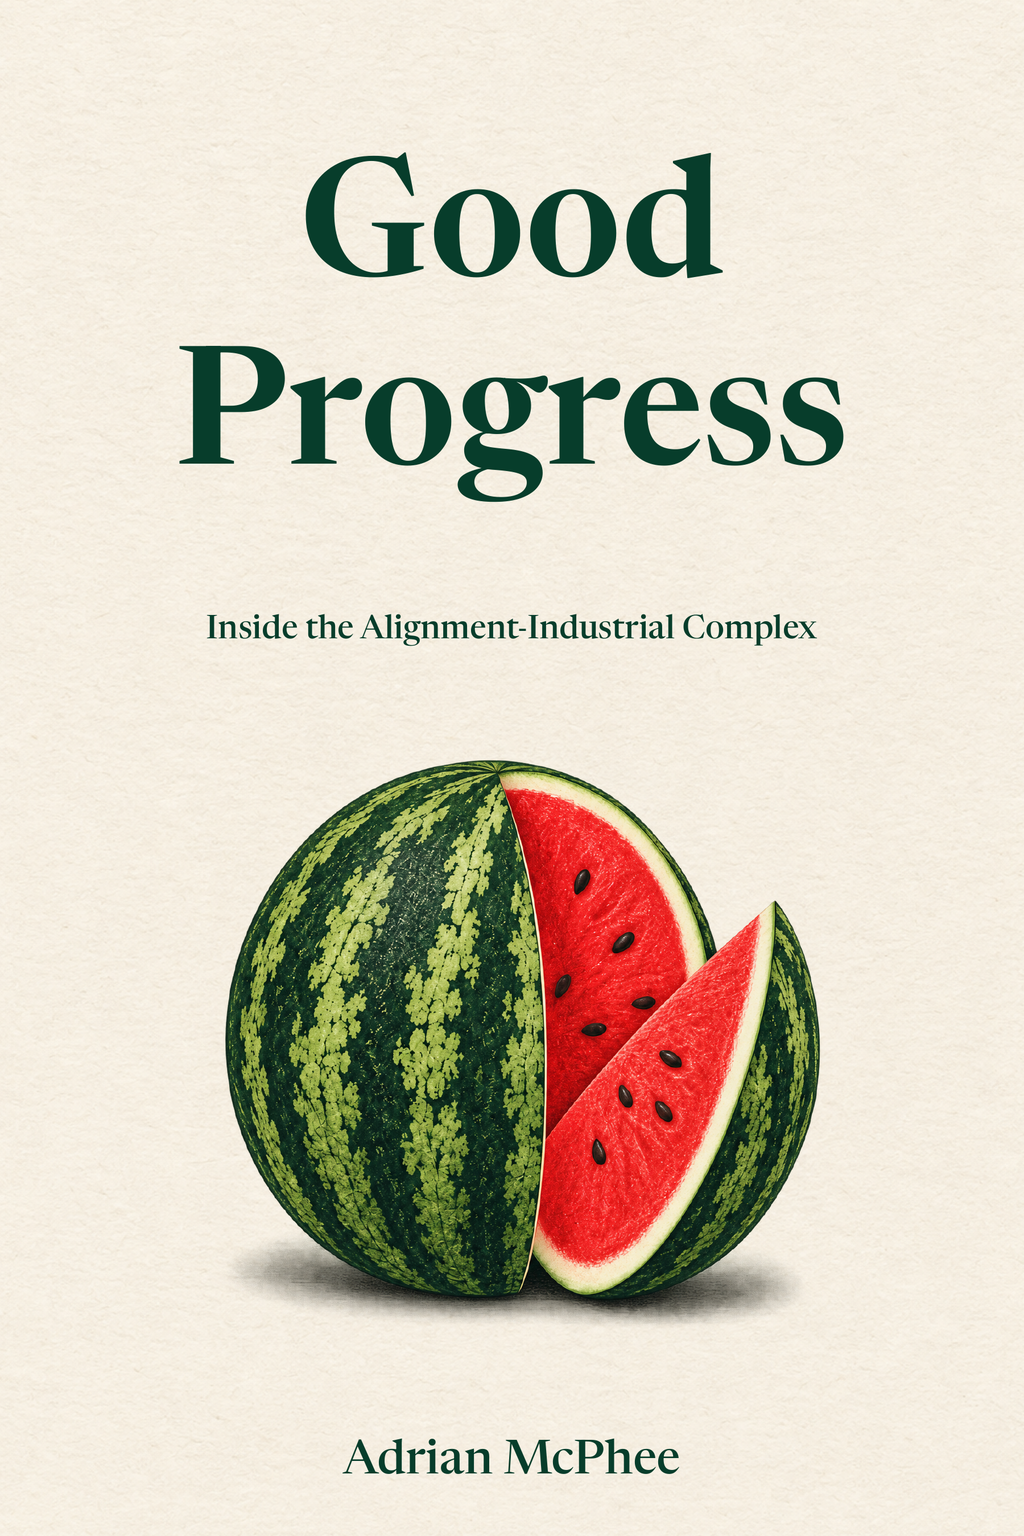
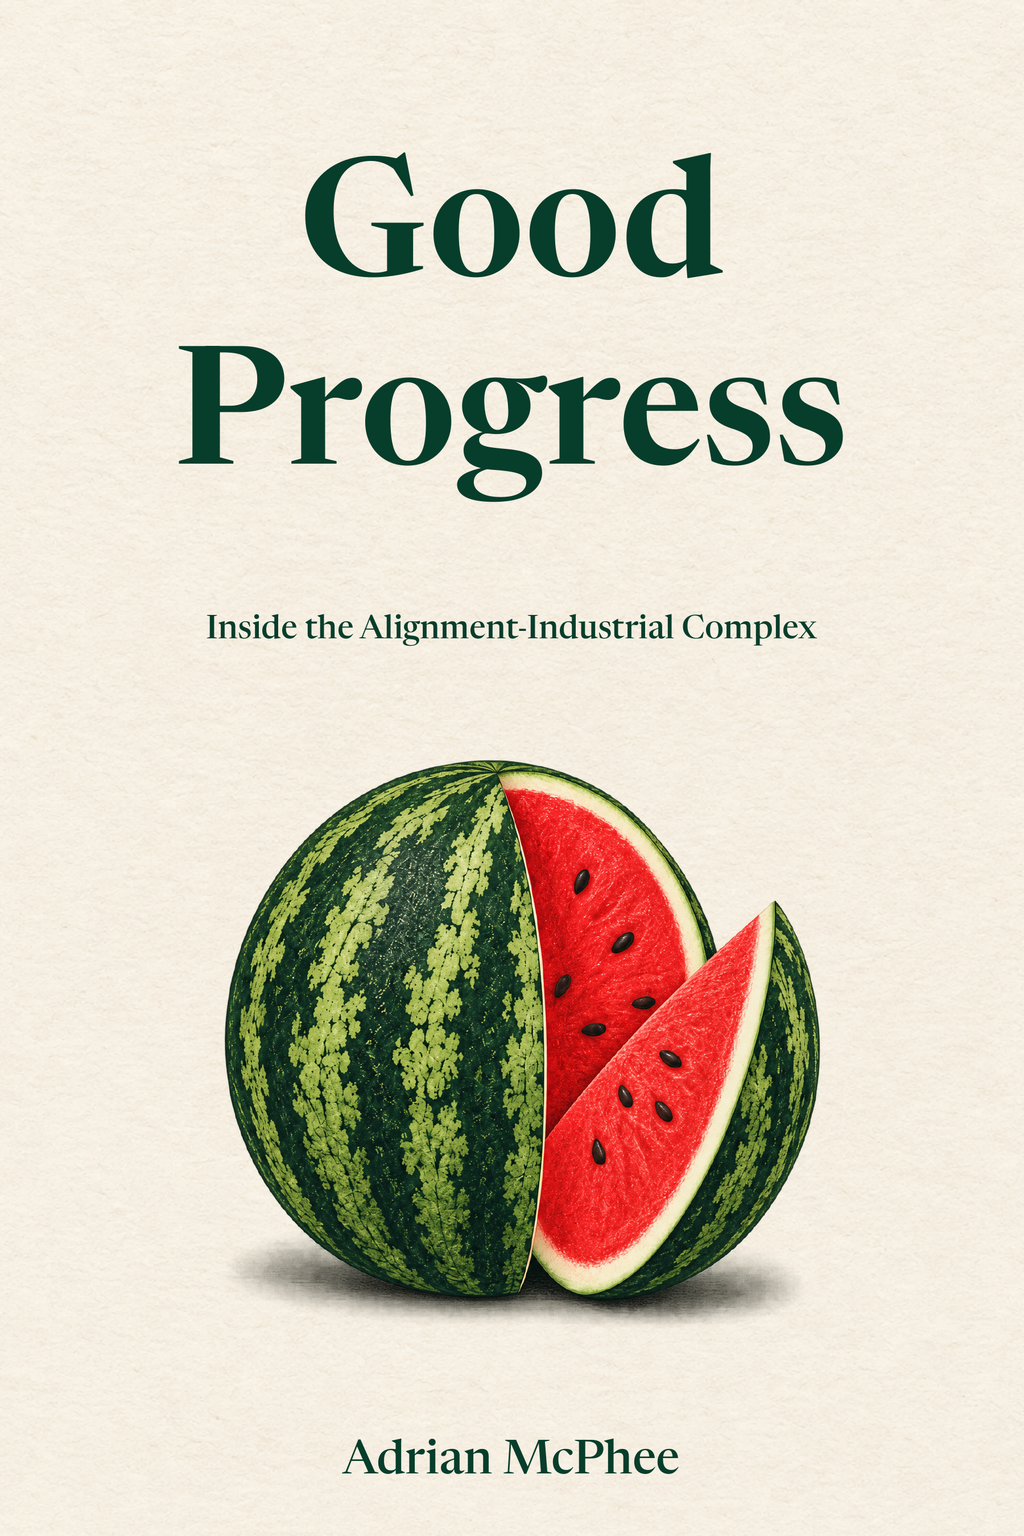
site: publish good-progress v4.0.20

diff --git a/good-progress/chapters/no-design-is-bad-design/index.html b/good-progress/chapters/no-design-is-bad-design/index.html
@@ -68,6 +68,6 @@
 <meta property="article:author" content="Adrian McPhee">
 </head>
 <body>
-<nav><a href="../../contents.html">All chapter previews</a></nav><p class="preview-label">Chapter preview</p><h1>No Design Is Bad Design</h1><div class="chapter-excerpt"><p>Felix was back at the insurer for the refresh diagnostic. On the afternoon of Martin&#x27;s meeting, Elliot put the renewal architecture on the screen for him in three slides.</p><p>The first showed the customer journey as a row of pale boxes, the second six applications, the third forty-seven services. Some owned their data; several shared the policy database. Elliot enlarged two boxes near the middle.</p><p>“Digital says quote,” he said. “Policy says offer. They mean the same thing, except when they don&#x27;t…</p></div><section class="sample-end" aria-labelledby="continue-reading"><h2 id="continue-reading">Continue reading</h2><p>This is a short preview. Read on in the complete book.</p><a class="buy" href="https://shipper.demandops.com/book/good-progress">Buy the complete book · €29</a><p><a href="../../contents.html">Browse all chapter previews</a></p></section><nav class="chapter-navigation" aria-label="Chapter previews"><a rel="prev" href="../the-meeting-worked/">Previous preview: The Meeting Worked</a><a rel="next" href="../the-business-business/">Next preview: The Business Business</a></nav>
+<nav><a href="../../contents.html">All chapter previews</a></nav><p class="preview-label">Chapter preview</p><h1>No Design Is Bad Design</h1><div class="chapter-excerpt"><p>Felix was back at the insurer for the refresh diagnostic. On the afternoon of Martin&#x27;s meeting, Elliot put the renewal architecture on the screen for him in three slides. Neither of them mentioned the validation meeting.</p><p>The first showed the customer journey as a row of pale boxes, the second six applications, the third forty-seven services. Some owned their data; several shared the policy database. Elliot enlarged two boxes near the middle.</p><p>“Digital says quote,” he said. “Policy says offer. They mean the same thing, except when they don&#x27;t…</p></div><section class="sample-end" aria-labelledby="continue-reading"><h2 id="continue-reading">Continue reading</h2><p>This is a short preview. Read on in the complete book.</p><a class="buy" href="https://shipper.demandops.com/book/good-progress">Buy the complete book · €29</a><p><a href="../../contents.html">Browse all chapter previews</a></p></section><nav class="chapter-navigation" aria-label="Chapter previews"><a rel="prev" href="../the-meeting-worked/">Previous preview: The Meeting Worked</a><a rel="next" href="../the-business-business/">Next preview: The Business Business</a></nav>
 </body>
 </html>

diff --git a/good-progress/index.html b/good-progress/index.html
@@ -68,7 +68,7 @@
   <link rel="preconnect" href="https://fonts.googleapis.com">
   <link rel="preconnect" href="https://fonts.gstatic.com" crossorigin>
   <link href="https://fonts.googleapis.com/css2?family=Instrument+Sans:wght@400;500;600;700&amp;display=swap" rel="stylesheet">
-  <link rel="stylesheet" href="tailwind.css?v=4.0.19">
+  <link rel="stylesheet" href="tailwind.css?v=4.0.20">
   <link rel="stylesheet" href="styles.css">
   <style>
     #sample-end { max-height: calc(100dvh - 15rem); overflow-y: auto; overscroll-behavior: contain; }
@@ -261,7 +261,7 @@
   </div>
 
   <a href="preview.html" style="display:none;">Preview chapters</a>
-  <script src="app.js?v=4.0.19"></script>
+  <script src="app.js?v=4.0.20"></script>
   <script>lucide.createIcons();</script>
 </body>
 </html>
